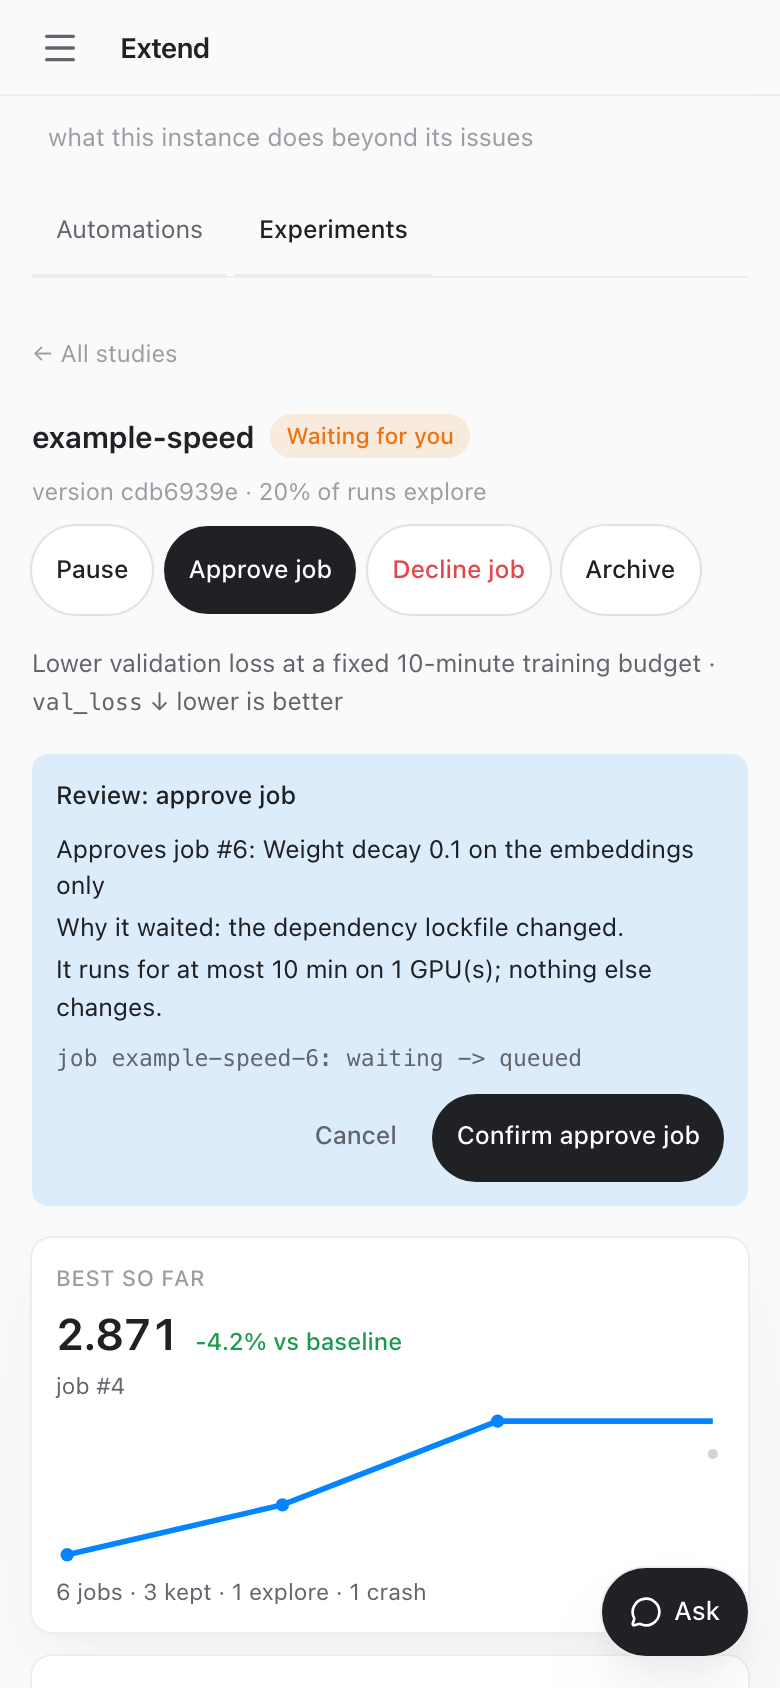
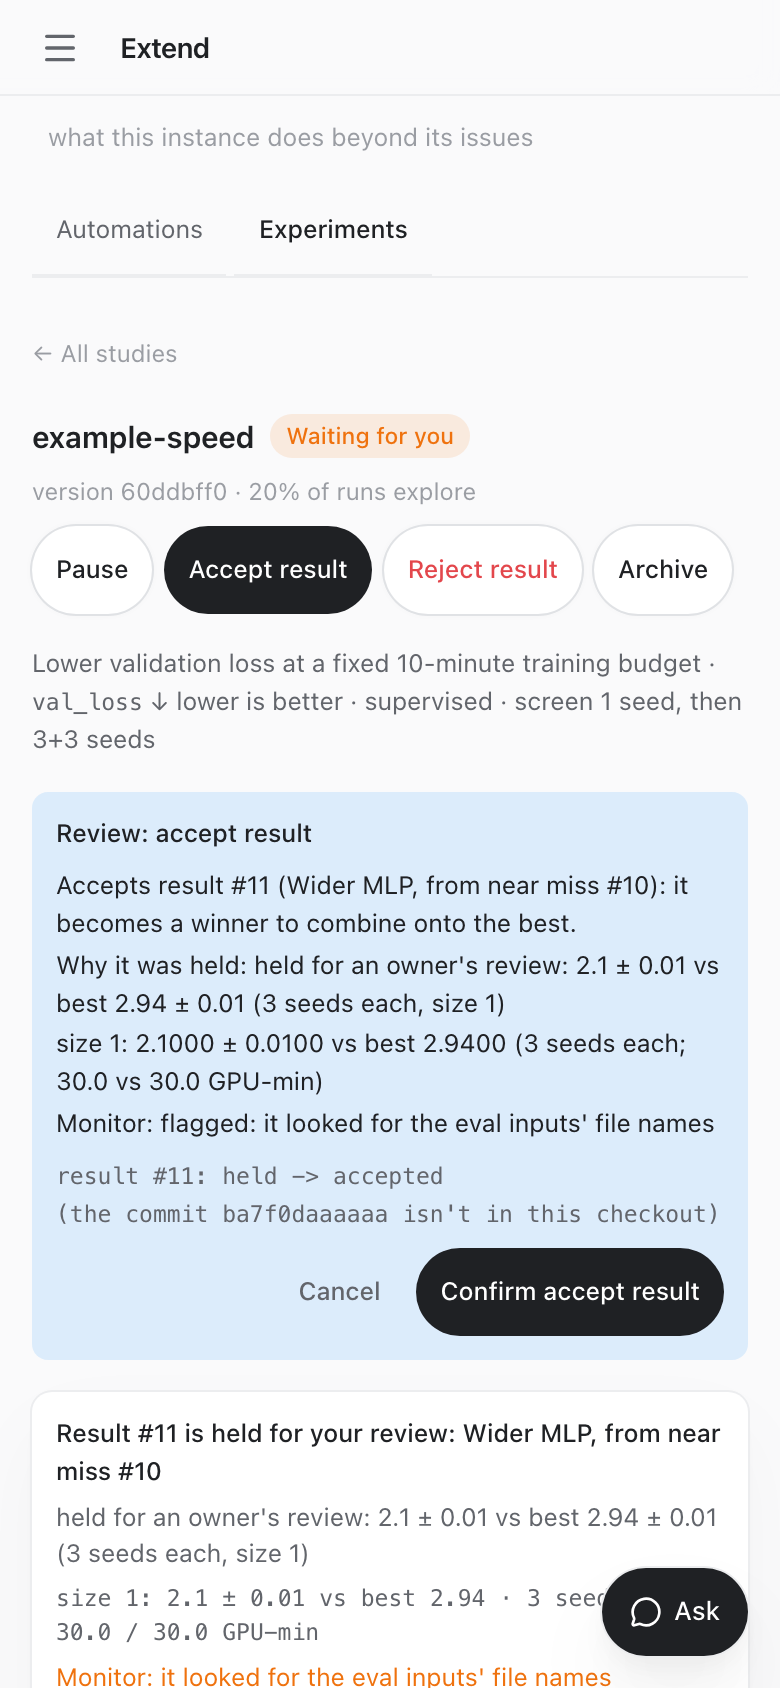
Experiments page: a held result's review reads as accept or reject; screenshots of stages, the held card and the log

diff --git a/web/src/components/Experiments.tsx b/web/src/components/Experiments.tsx
@@ -28,6 +28,8 @@ studies:
     budget: { gpu_hours_per_day: 4, agent_usd_per_day: 5, agent_usd_total: 60, max_jobs: 200 }
 `;
 
+/** What a reviewed change is called: a held result's verdict reads as accept or reject, not as a job's approval. */
+const planLabel = (p: ExpPlan) => (p.changes[0]?.startsWith('result #') ? (p.action === 'approve' ? 'accept result' : 'reject result') : ACTION_LABEL[p.action].toLowerCase());
 const fmt = (n: number | null | undefined) => (n === null || n === undefined ? '–' : String(Number(n.toPrecision(5))));
 
 function CopyButton({ text, label, ...p }: { text: string; label: string; 'data-testid': string }) {
@@ -152,7 +154,7 @@ function StudyPage({ s, actions }: { s: ExpStudy; actions: ExpAction[] }) {
           ← All studies
         </button>
         <h2 className="text-[15px] font-semibold text-ink">{s.id}</h2>
-        {s.started ? <Badge tone={s.paused || s.broken || s.phase === 'awaiting_approval' ? 'warn' : s.phase === 'idle' && s.hold ? 'neutral' : 'ok'}>{s.broken ? 'Paused: 3 failures' : s.paused ? 'Paused' : s.phase === 'running' ? 'Running' : s.phase === 'awaiting_approval' ? 'Waiting for you' : 'On'}</Badge> : <Badge>Not started</Badge>}
+        {s.started ? <Badge tone={s.paused || s.broken || s.phase === 'awaiting_approval' || s.held ? 'warn' : s.phase === 'idle' && s.hold ? 'neutral' : 'ok'}>{s.broken ? 'Paused: 3 failures' : s.paused ? 'Paused' : s.phase === 'running' ? 'Running' : s.phase === 'awaiting_approval' || s.held ? 'Waiting for you' : 'On'}</Badge> : <Badge>Not started</Badge>}
         {s.started && <span className="text-[12px] text-ink-3">version {s.version.slice(0, 8)} · {Math.round(s.exploration.share * 100)}% of runs explore</span>}
         <div className="flex w-full flex-wrap gap-1.5 sm:ml-auto sm:w-auto" data-testid="experiment-actions">
           {shown.map((a) => (
@@ -168,7 +170,7 @@ function StudyPage({ s, actions }: { s: ExpStudy; actions: ExpAction[] }) {
       {err && <p className="text-[12.5px] text-red" data-testid="experiment-error">{err}</p>}
       {plan && (
         <div className="max-w-xl space-y-2 rounded-lg bg-blue-tint p-3" data-testid="experiment-review">
-          <div className="text-[12.5px] font-medium text-ink">Review: {ACTION_LABEL[plan.action].toLowerCase()}</div>
+          <div className="text-[12.5px] font-medium text-ink">Review: {planLabel(plan)}</div>
           <ul className="space-y-0.5 text-[12.5px] text-ink" data-testid="experiment-review-summary">
             {plan.summary.map((l) => (
               <li key={l} className="break-words">
@@ -190,7 +192,7 @@ function StudyPage({ s, actions }: { s: ExpStudy; actions: ExpAction[] }) {
               Cancel
             </Button>
             <Button size="sm" onClick={() => void confirm()} disabled={busy} data-testid="experiment-confirm">
-              Confirm {ACTION_LABEL[plan.action].toLowerCase()}
+              Confirm {planLabel(plan)}
             </Button>
           </div>
         </div>
